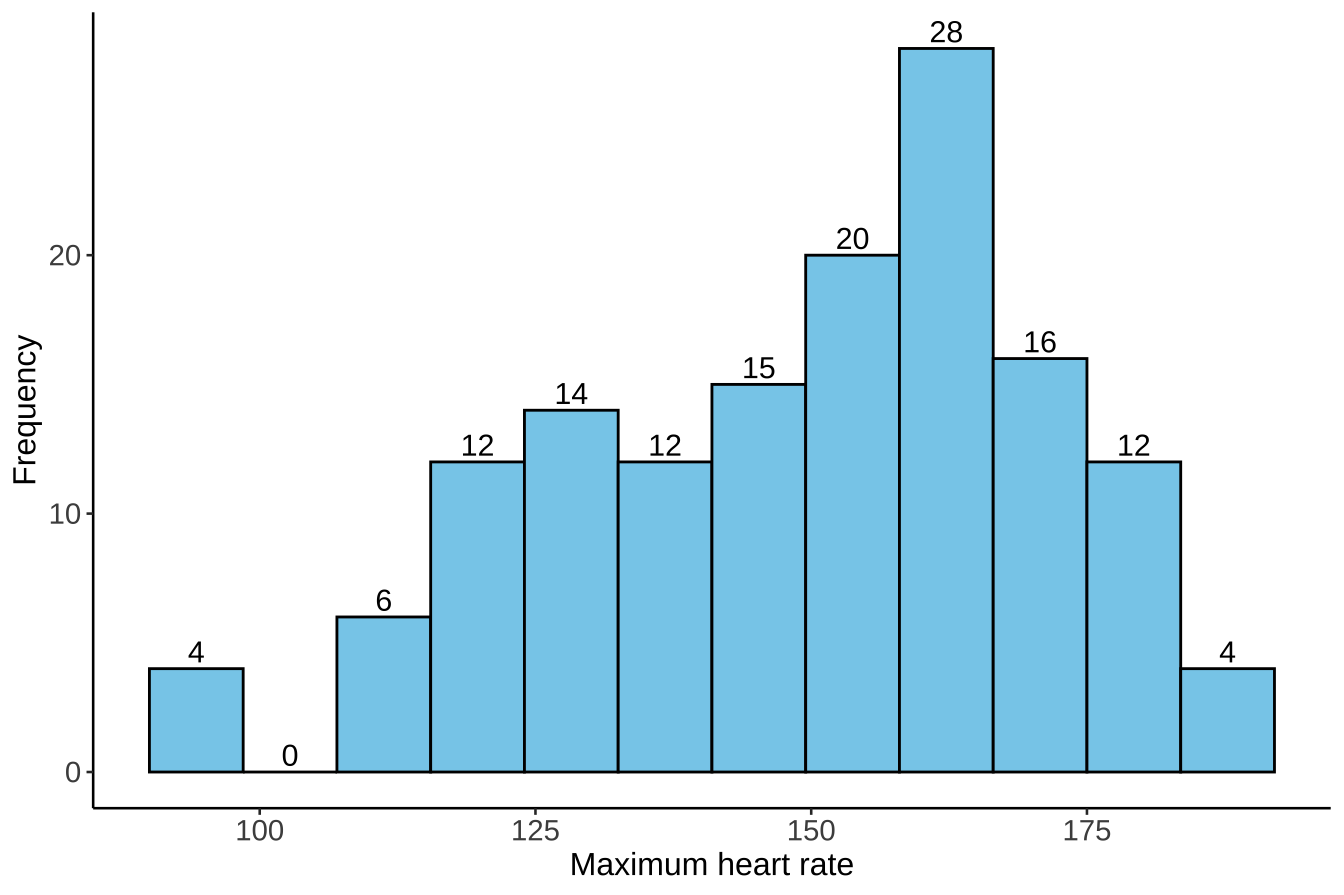
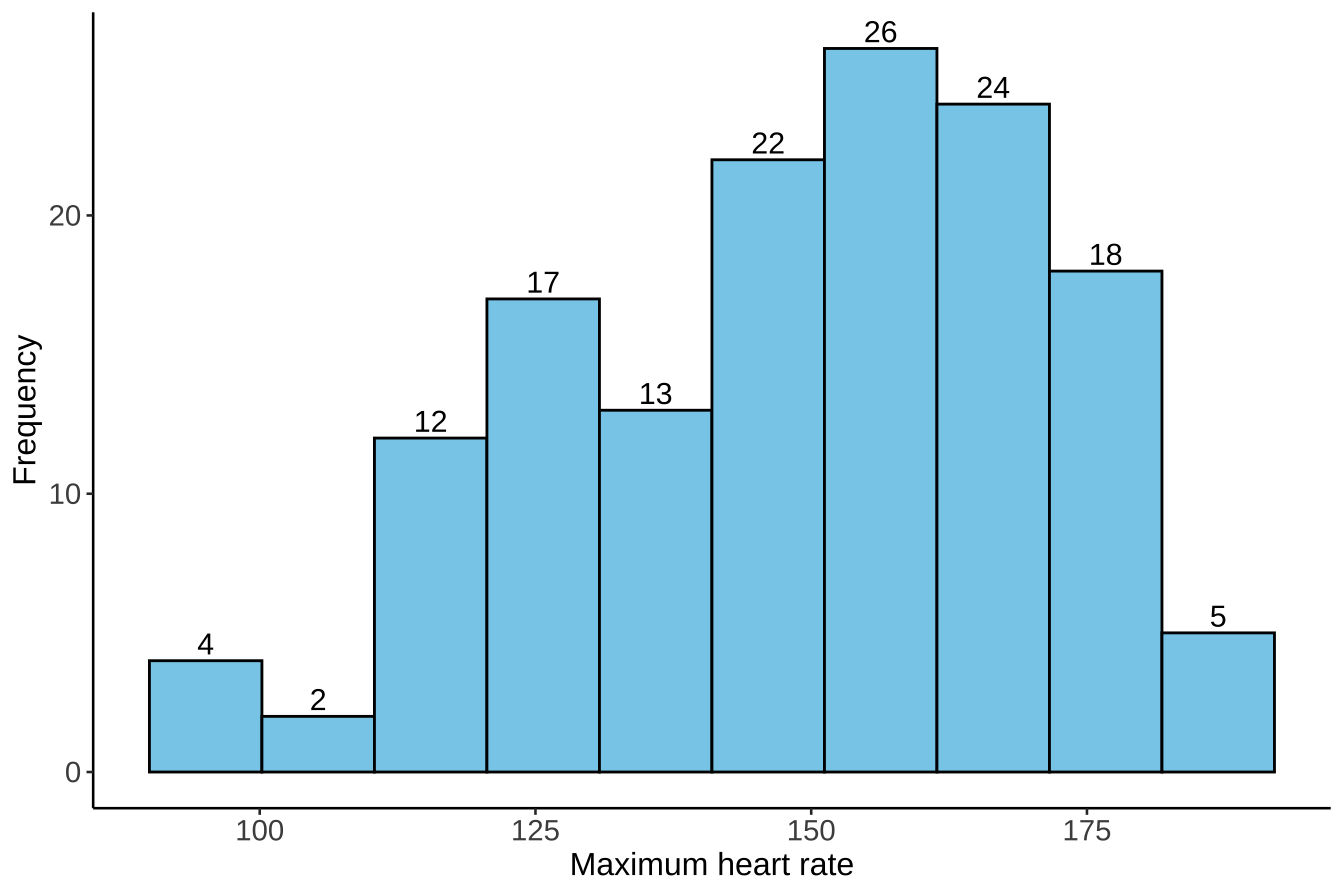
commit

diff --git a/_book/quat-data-stat-desc.html b/_book/quat-data-stat-desc.html
@@ -356,20 +356,11 @@ window.Quarto = {
 <div class="cell">
 <div class="sourceCode cell-code" id="cb1"><pre class="sourceCode r code-with-copy"><code class="sourceCode r"><span id="cb1-1"><a href="#cb1-1" aria-hidden="true" tabindex="-1"></a><span class="fu">library</span>(tidyverse)</span></code><button title="Copy to Clipboard" class="code-copy-button"><i class="bi"></i></button></pre></div>
 </div>
-<div class="callout callout-style-default callout-tip no-icon callout-titled">
-<div class="callout-header d-flex align-content-center">
-<div class="callout-icon-container">
-<i class="callout-icon no-icon"></i>
-</div>
-<div class="callout-title-container flex-fill">
-Example
-</div>
-</div>
-<div class="callout-body-container callout-body">
+<div class="example">
+<strong>Example 1:</strong> 
 <p>Some researchers used a random sampling method to examine the maximum heart rate of 143 normal adult women. The measuring results are saved in a <code>.csv</code> file. Please use the data to create a frequency distribution table.</p>
 </div>
-</div>
-<p>Here we can import the data file into R by <code>read_csv()</code> function. The first argument is the most important: the path to the file. You can think about the path as the address of the file.</p>
+<p>Here we use <code>read_csv()</code> function to import the data file into R.</p>
 <div class="cell">
 <div class="sourceCode cell-code" id="cb2"><pre class="sourceCode r code-with-copy"><code class="sourceCode r"><span id="cb2-1"><a href="#cb2-1" aria-hidden="true" tabindex="-1"></a>max_hr <span class="ot">&lt;-</span> <span class="fu">read_csv</span>(<span class="st">"datasets/ex02-01.csv"</span>)</span>
 <span id="cb2-2"><a href="#cb2-2" aria-hidden="true" tabindex="-1"></a><span class="co">#&gt; Rows: 143 Columns: 1</span></span>
@@ -380,8 +371,9 @@ Example
 <span id="cb2-7"><a href="#cb2-7" aria-hidden="true" tabindex="-1"></a><span class="co">#&gt; ℹ Use `spec()` to retrieve the full column specification for this data.</span></span>
 <span id="cb2-8"><a href="#cb2-8" aria-hidden="true" tabindex="-1"></a><span class="co">#&gt; ℹ Specify the column types or set `show_col_types = FALSE` to quiet this message.</span></span></code><button title="Copy to Clipboard" class="code-copy-button"><i class="bi"></i></button></pre></div>
 </div>
-<p>The code above will work if you have the <code>ex02-01.csv</code> file in the <code>datasets</code> folder of your project.</p>
-<p>The missing values are checked below：</p>
+<p>The first argument is the most important: the path to the file. You can think about the path as the address of the file. The code above will work if you have a <code>ex02-01.csv</code> file in the <code>datasets</code> folder of your project.</p>
+<p>When you run <code>read_csv()</code>, it prints out a message telling you the number of rows and columns of data, the delimiter that was used, and the column specifications (names of columns organized by the type of data the column contains). It also prints out some information about retrieving the full column specification and how to quiet this message.</p>
+<p>The data file has only one column with name <code>max_hr</code>. Let’s check if there are some missing values present in it.</p>
 <div class="cell">
 <div class="sourceCode cell-code" id="cb3"><pre class="sourceCode r code-with-copy"><code class="sourceCode r"><span id="cb3-1"><a href="#cb3-1" aria-hidden="true" tabindex="-1"></a>max_hr <span class="sc">|&gt;</span> </span>
 <span id="cb3-2"><a href="#cb3-2" aria-hidden="true" tabindex="-1"></a>  <span class="fu">anyNA</span>()</span>
@@ -406,13 +398,13 @@ Example
 <span id="cb4-5"><a href="#cb4-5" aria-hidden="true" tabindex="-1"></a>  <span class="fu">max</span>()</span></code><button title="Copy to Clipboard" class="code-copy-button"><i class="bi"></i></button></pre></div>
 </div>
 <ol start="2" type="1">
-<li>Determining the number of intervals. The number of intervals is typically between 10 and 15; here, we adopt <strong>12</strong>. The <code>seq()</code> function is used to obtain upper and lower limits of the intervals.</li>
+<li>Determining the number of intervals. The number of intervals is typically between 10 and 15; here, we adopt <strong>10</strong>. The <code>seq()</code> function is used to obtain upper and lower limits of the intervals.</li>
 </ol>
 <div class="cell">
-<div class="sourceCode cell-code" id="cb5"><pre class="sourceCode r code-with-copy"><code class="sourceCode r"><span id="cb5-1"><a href="#cb5-1" aria-hidden="true" tabindex="-1"></a>breaks <span class="ot">&lt;-</span> <span class="fu">seq</span>(min_max_hr, max_max_hr, <span class="at">length.out =</span> <span class="dv">13</span>)</span>
-<span id="cb5-2"><a href="#cb5-2" aria-hidden="true" tabindex="-1"></a>breaks</span>
-<span id="cb5-3"><a href="#cb5-3" aria-hidden="true" tabindex="-1"></a><span class="co">#&gt;  [1]  90.0  98.5 107.0 115.5 124.0 132.5 141.0 149.5 158.0 166.5 175.0 183.5</span></span>
-<span id="cb5-4"><a href="#cb5-4" aria-hidden="true" tabindex="-1"></a><span class="co">#&gt; [13] 192.0</span></span></code><button title="Copy to Clipboard" class="code-copy-button"><i class="bi"></i></button></pre></div>
+<div class="sourceCode cell-code" id="cb5"><pre class="sourceCode r code-with-copy"><code class="sourceCode r"><span id="cb5-1"><a href="#cb5-1" aria-hidden="true" tabindex="-1"></a>n_of_bins <span class="ot">=</span> <span class="dv">10</span></span>
+<span id="cb5-2"><a href="#cb5-2" aria-hidden="true" tabindex="-1"></a>breaks <span class="ot">&lt;-</span> <span class="fu">seq</span>(min_max_hr, max_max_hr, <span class="at">length.out =</span> n_of_bins <span class="sc">+</span> <span class="dv">1</span>)</span>
+<span id="cb5-3"><a href="#cb5-3" aria-hidden="true" tabindex="-1"></a>breaks</span>
+<span id="cb5-4"><a href="#cb5-4" aria-hidden="true" tabindex="-1"></a><span class="co">#&gt;  [1]  90.0 100.2 110.4 120.6 130.8 141.0 151.2 161.4 171.6 181.8 192.0</span></span></code><button title="Copy to Clipboard" class="code-copy-button"><i class="bi"></i></button></pre></div>
 </div>
 <ol start="3" type="1">
 <li>Using the <code>cut()</code> function to dive each data into their respective intervals.</li>
@@ -420,13 +412,13 @@ Example
 <div class="cell">
 <div class="sourceCode cell-code" id="cb6"><pre class="sourceCode r code-with-copy"><code class="sourceCode r"><span id="cb6-1"><a href="#cb6-1" aria-hidden="true" tabindex="-1"></a><span class="fu">cut</span>(<span class="fu">pull</span>(max_hr), <span class="at">breaks =</span> breaks, <span class="at">include.lowest =</span> T, <span class="at">right =</span> F) <span class="sc">|&gt;</span> </span>
 <span id="cb6-2"><a href="#cb6-2" aria-hidden="true" tabindex="-1"></a>  <span class="fu">head</span>(<span class="dv">40</span>)</span>
-<span id="cb6-3"><a href="#cb6-3" aria-hidden="true" tabindex="-1"></a><span class="co">#&gt;  [1] [166,175) [116,124) [141,150) [132,141) [150,158) [158,166) [141,150)</span></span>
-<span id="cb6-4"><a href="#cb6-4" aria-hidden="true" tabindex="-1"></a><span class="co">#&gt;  [8] [158,166) [124,132) [150,158) [141,150) [141,150) [124,132) [124,132)</span></span>
-<span id="cb6-5"><a href="#cb6-5" aria-hidden="true" tabindex="-1"></a><span class="co">#&gt; [15] [150,158) [132,141) [166,175) [175,184) [141,150) [124,132) [141,150)</span></span>
-<span id="cb6-6"><a href="#cb6-6" aria-hidden="true" tabindex="-1"></a><span class="co">#&gt; [22] [107,116) [150,158) [141,150) [158,166) [141,150) [175,184) [107,116)</span></span>
-<span id="cb6-7"><a href="#cb6-7" aria-hidden="true" tabindex="-1"></a><span class="co">#&gt; [29] [124,132) [132,141) [184,192] [132,141) [184,192] [175,184) [132,141)</span></span>
-<span id="cb6-8"><a href="#cb6-8" aria-hidden="true" tabindex="-1"></a><span class="co">#&gt; [36] [116,124) [175,184) [175,184) [132,141) [90,98.5)</span></span>
-<span id="cb6-9"><a href="#cb6-9" aria-hidden="true" tabindex="-1"></a><span class="co">#&gt; 12 Levels: [90,98.5) [98.5,107) [107,116) [116,124) [124,132) ... [184,192]</span></span></code><button title="Copy to Clipboard" class="code-copy-button"><i class="bi"></i></button></pre></div>
+<span id="cb6-3"><a href="#cb6-3" aria-hidden="true" tabindex="-1"></a><span class="co">#&gt;  [1] [161,172) [110,121) [141,151) [131,141) [141,151) [161,172) [141,151)</span></span>
+<span id="cb6-4"><a href="#cb6-4" aria-hidden="true" tabindex="-1"></a><span class="co">#&gt;  [8] [161,172) [121,131) [151,161) [141,151) [141,151) [121,131) [121,131)</span></span>
+<span id="cb6-5"><a href="#cb6-5" aria-hidden="true" tabindex="-1"></a><span class="co">#&gt; [15] [141,151) [131,141) [161,172) [172,182) [141,151) [121,131) [141,151)</span></span>
+<span id="cb6-6"><a href="#cb6-6" aria-hidden="true" tabindex="-1"></a><span class="co">#&gt; [22] [110,121) [141,151) [141,151) [151,161) [141,151) [172,182) [100,110)</span></span>
+<span id="cb6-7"><a href="#cb6-7" aria-hidden="true" tabindex="-1"></a><span class="co">#&gt; [29] [121,131) [131,141) [182,192] [131,141) [182,192] [172,182) [131,141)</span></span>
+<span id="cb6-8"><a href="#cb6-8" aria-hidden="true" tabindex="-1"></a><span class="co">#&gt; [36] [110,121) [172,182) [172,182) [131,141) [90,100) </span></span>
+<span id="cb6-9"><a href="#cb6-9" aria-hidden="true" tabindex="-1"></a><span class="co">#&gt; 10 Levels: [90,100) [100,110) [110,121) [121,131) [131,141) ... [182,192]</span></span></code><button title="Copy to Clipboard" class="code-copy-button"><i class="bi"></i></button></pre></div>
 </div>
 <ol type="1">
 <li>8 intervals per line, with the total number of elements being a multiple of 8. Use empty characters to pad if necessary.</li>
@@ -449,52 +441,44 @@ Example
 </thead>
 <tbody>
 <tr class="odd">
-<td style="text-align: center;">[90,98.5)</td>
+<td style="text-align: center;">[90,100)</td>
 <td style="text-align: center;">4</td>
 </tr>
 <tr class="even">
-<td style="text-align: center;">[98.5,107)</td>
-<td style="text-align: center;">0</td>
+<td style="text-align: center;">[100,110)</td>
+<td style="text-align: center;">2</td>
 </tr>
 <tr class="odd">
-<td style="text-align: center;">[107,116)</td>
-<td style="text-align: center;">6</td>
-</tr>
-<tr class="even">
-<td style="text-align: center;">[116,124)</td>
-<td style="text-align: center;">12</td>
-</tr>
-<tr class="odd">
-<td style="text-align: center;">[124,132)</td>
-<td style="text-align: center;">14</td>
-</tr>
-<tr class="even">
-<td style="text-align: center;">[132,141)</td>
-<td style="text-align: center;">12</td>
-</tr>
-<tr class="odd">
-<td style="text-align: center;">[141,150)</td>
-<td style="text-align: center;">15</td>
-</tr>
-<tr class="even">
-<td style="text-align: center;">[150,158)</td>
-<td style="text-align: center;">20</td>
-</tr>
-<tr class="odd">
-<td style="text-align: center;">[158,166)</td>
-<td style="text-align: center;">28</td>
-</tr>
-<tr class="even">
-<td style="text-align: center;">[166,175)</td>
-<td style="text-align: center;">16</td>
-</tr>
-<tr class="odd">
-<td style="text-align: center;">[175,184)</td>
+<td style="text-align: center;">[110,121)</td>
 <td style="text-align: center;">12</td>
 </tr>
 <tr class="even">
-<td style="text-align: center;">[184,192]</td>
-<td style="text-align: center;">4</td>
+<td style="text-align: center;">[121,131)</td>
+<td style="text-align: center;">17</td>
+</tr>
+<tr class="odd">
+<td style="text-align: center;">[131,141)</td>
+<td style="text-align: center;">13</td>
+</tr>
+<tr class="even">
+<td style="text-align: center;">[141,151)</td>
+<td style="text-align: center;">22</td>
+</tr>
+<tr class="odd">
+<td style="text-align: center;">[151,161)</td>
+<td style="text-align: center;">26</td>
+</tr>
+<tr class="even">
+<td style="text-align: center;">[161,172)</td>
+<td style="text-align: center;">24</td>
+</tr>
+<tr class="odd">
+<td style="text-align: center;">[172,182)</td>
+<td style="text-align: center;">18</td>
+</tr>
+<tr class="even">
+<td style="text-align: center;">[182,192]</td>
+<td style="text-align: center;">5</td>
 </tr>
 </tbody>
 </table>

diff --git a/_book/basic-stat.html b/_book/basic-stat.html
@@ -149,19 +149,19 @@ ul.task-list li input[type="checkbox"] {
           <li class="sidebar-item">
   <div class="sidebar-item-container"> 
   <a href="./count-data-stat-desc.html" class="sidebar-item-text sidebar-link">
- <span class="menu-text"><span class="chapter-number">3</span>&nbsp; <span class="chapter-title">Description of Categorical Variables</span></span></a>
+ <span class="menu-text"><span class="chapter-number">3</span>&nbsp; <span class="chapter-title">Statistical description of count data</span></span></a>
   </div>
 </li>
           <li class="sidebar-item">
   <div class="sidebar-item-container"> 
   <a href="./confidence-interval.html" class="sidebar-item-text sidebar-link">
- <span class="menu-text"><span class="chapter-number">4</span>&nbsp; <span class="chapter-title">Confidence Interval</span></span></a>
+ <span class="menu-text"><span class="chapter-number">4</span>&nbsp; <span class="chapter-title">Confidence interval</span></span></a>
   </div>
 </li>
           <li class="sidebar-item">
   <div class="sidebar-item-container"> 
   <a href="./ttest.html" class="sidebar-item-text sidebar-link">
- <span class="menu-text"><span class="chapter-number">5</span>&nbsp; <span class="chapter-title">Population mean estimation and t test</span></span></a>
+ <span class="menu-text"><span class="chapter-number">5</span>&nbsp; <span class="chapter-title">Population mean estimation and <em>t</em> test</span></span></a>
   </div>
 </li>
           <li class="sidebar-item">
@@ -173,7 +173,7 @@ ul.task-list li input[type="checkbox"] {
           <li class="sidebar-item">
   <div class="sidebar-item-container"> 
   <a href="./chi-square-test.html" class="sidebar-item-text sidebar-link">
- <span class="menu-text"><span class="chapter-number">7</span>&nbsp; <span class="chapter-title">Chi-Square Test</span></span></a>
+ <span class="menu-text"><span class="chapter-number">7</span>&nbsp; <span class="chapter-title">Chi-square test</span></span></a>
   </div>
 </li>
           <li class="sidebar-item">
@@ -205,7 +205,7 @@ ul.task-list li input[type="checkbox"] {
         <li class="sidebar-item sidebar-item-section">
       <div class="sidebar-item-container"> 
             <a href="./stat-anal-report.html" class="sidebar-item-text sidebar-link">
- <span class="menu-text">统计分析报告</span></a>
+ <span class="menu-text">Statistical analysis report</span></a>
           <a class="sidebar-item-toggle text-start" data-bs-toggle="collapse" data-bs-target="#quarto-sidebar-section-2" aria-expanded="true" aria-label="Toggle section">
             <i class="bi bi-chevron-right ms-2"></i>
           </a> 

diff --git a/_book/site_libs/bootstrap/bootstrap-dark.min.css b/_book/site_libs/bootstrap/bootstrap-dark.min.css
@@ -1,4 +1,4 @@
-@import"https://fonts.googleapis.com/css2?family=Lato:ital,wght@0,400;0,700;1,400&display=swap";.sidebar-title{color:#fff;font-weight:bold}.table{border-collapse:collapse}.table th,.table td{border:none}.figure{text-align:center}div.sidebar-item-container .active{font-weight:bold}.sidebar nav[role=doc-toc] ul>li>a.active,.sidebar nav[role=doc-toc] ul>li>ul>li>a.active{font-weight:bold}.nav-link.active{background-color:#fff !important}.sidebar-navigation a:hover{color:#fff !important}@media(prefers-color-scheme: dark){table,th,td{color:#fff !important;background-color:#333 !important;border-color:#fff !important}}/*!
+@import"https://fonts.googleapis.com/css2?family=Lato:ital,wght@0,400;0,700;1,400&display=swap";.sidebar-title{color:#fff;font-weight:bold}.table{border-collapse:collapse}.table th,.table td{border:none}.figure{text-align:center}div.sidebar-item-container .active{font-weight:bold}.sidebar nav[role=doc-toc] ul>li>a.active,.sidebar nav[role=doc-toc] ul>li>ul>li>a.active{font-weight:bold}.nav-link.active{background-color:#fff !important}.sidebar-navigation a:hover{color:#fff !important}@media(prefers-color-scheme: dark){table,th,td{color:#fff !important;background-color:#333 !important;border-color:#fff !important}}.example{color:#fff;padding-left:12px;padding-right:12px;padding-top:6px;border-radius:5px;border:2px solid #ff0}.example strong{font-weight:bold}/*!
  * Bootstrap  v5.3.1 (https://getbootstrap.com/)
  * Copyright 2011-2023 The Bootstrap Authors
  * Licensed under MIT (https://github.com/twbs/bootstrap/blob/main/LICENSE)

diff --git a/_book/ttest.html b/_book/ttest.html
@@ -350,7 +350,6 @@ window.Quarto = {
 <span id="cb1-2"><a href="#cb1-2" aria-hidden="true" tabindex="-1"></a><span class="fu">library</span>(kableExtra)</span></code><button title="Copy to Clipboard" class="code-copy-button"><i class="bi"></i></button></pre></div>
 </div>
 <p><strong>例3-1</strong> 若某市1999年18岁男生身高服从均数为167.7cm，标准差为5.3cm的正态分布。从该正态分布N(167.7, 5.3<sup>2</sup>)cm总体中随机抽样100次即共抽取样本g=100个，每次样本含量10人，计算得到每个样本的均数及标准差，数据以Stata格式保存，利用<code>haven::read_csv()</code>函数导入R变量 <code>height_sample</code> 中。是部分数据。</p>
-<p>You can import this data file into R by <code>read_csv()</code> function. The first argument is the most important: the path to the file. You can think about the path as the address of the file.</p>
 <div class="cell">
 <div class="sourceCode cell-code" id="cb2"><pre class="sourceCode r code-with-copy"><code class="sourceCode r"><span id="cb2-1"><a href="#cb2-1" aria-hidden="true" tabindex="-1"></a>height_sample <span class="ot">&lt;-</span> <span class="fu">read_csv</span>(<span class="st">"datasets/ex03-01.csv"</span>) </span>
 <span id="cb2-2"><a href="#cb2-2" aria-hidden="true" tabindex="-1"></a><span class="co">#&gt; Rows: 100 Columns: 3</span></span>

diff --git a/_book/site_libs/bootstrap/bootstrap.min.css b/_book/site_libs/bootstrap/bootstrap.min.css
@@ -1,4 +1,4 @@
-@import"https://fonts.googleapis.com/css2?family=Lato:ital,wght@0,400;0,700;1,400&display=swap";.sidebar-title{color:#000}.table{border-collapse:collapse}.table th,.table td{border:none}.figure{text-align:center}div.sidebar-item-container .active{font-weight:bold}.sidebar nav[role=doc-toc] ul>li>a.active,.sidebar nav[role=doc-toc] ul>li>ul>li>a.active{font-weight:bold}.nav-link.active{background-color:#efc078 !important}.sidebar-navigation a:hover{color:#000 !important}/*!
+@import"https://fonts.googleapis.com/css2?family=Lato:ital,wght@0,400;0,700;1,400&display=swap";.sidebar-title{color:#000}.table{border-collapse:collapse}.table th,.table td{border:none}.figure{text-align:center}div.sidebar-item-container .active{font-weight:bold}.sidebar nav[role=doc-toc] ul>li>a.active,.sidebar nav[role=doc-toc] ul>li>ul>li>a.active{font-weight:bold}.nav-link.active{background-color:#efc078 !important}.sidebar-navigation a:hover{color:#000 !important}.example{color:#333;padding-left:12px;padding-right:12px;padding-top:6px;border-radius:5px;border:2px solid #a0d8dd}.example strong{font-weight:bold}/*!
  * Bootstrap  v5.3.1 (https://getbootstrap.com/)
  * Copyright 2011-2023 The Bootstrap Authors
  * Licensed under MIT (https://github.com/twbs/bootstrap/blob/main/LICENSE)

diff --git a/flatly.scss b/flatly.scss
@@ -48,3 +48,16 @@ div.sidebar-item-container .active {
 .sidebar-navigation a:hover{
   color: #000000 !important;
 }
+
+.example {
+  color: #333333;  /* font color */
+  padding-left: 12px;  
+  padding-right: 12px;  
+  padding-top: 6px;
+  border-radius: 5px;  /* round corner */
+  border: 2px solid #A0D8DD;  
+}
+
+.example strong {
+  font-weight: bold;  /* only Example is bold */
+}

diff --git a/darkly.scss b/darkly.scss
@@ -60,8 +60,18 @@ div.sidebar-item-container .active {
     }
 }
 
+.example {
+  color: #FFFFFF;  
+  padding-left: 12px; 
+  padding-right: 12px;  
+  padding-top: 6px;
+  border-radius: 5px;  
+  border: 2px solid yellow;  
+}
 
-
+.example strong {
+  font-weight: bold;  
+}
 
 
 
